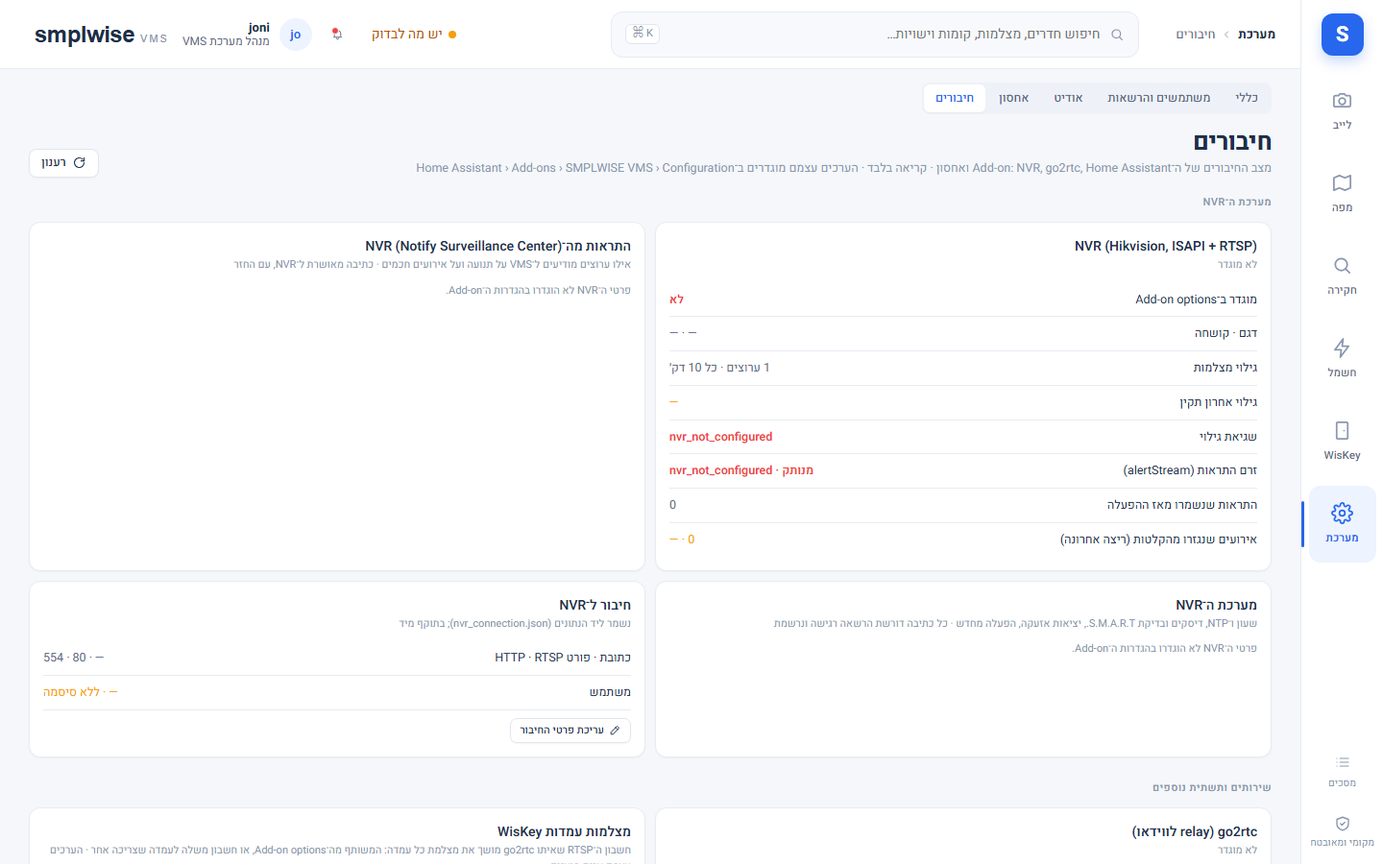
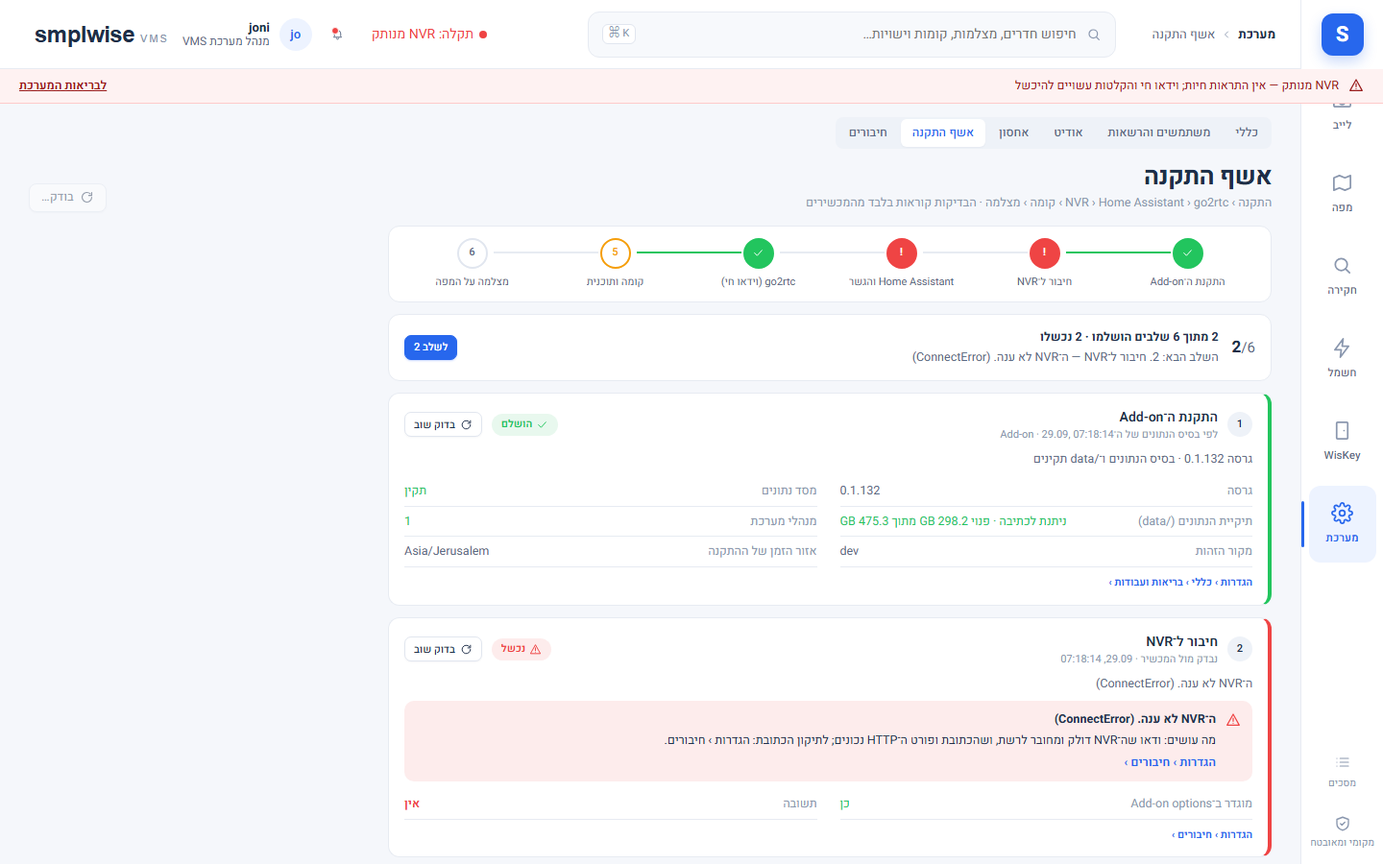
docs(he): setup wizard in DOCS_HE and the user guide; DOCS_HE mirrors DOCS.md @ 18ac4ad
DOCS_HE.md: installation step 5 and the "אשף ההתקנה (T071)" section, plus the T050 bundle-import text that had
drifted since 39fc47e, so the Source header now names 18ac4ad (docs_he_check: 0 drifted).

docs/user-guide/he/70-setup-wizard_HE.md describes the real flow: the six steps, what each checks, the common
failure and its fix, "בדוק שוב", "מוכן לעבודה", the shell hint and the clock thresholds; the screenshots are from the
build against the fake-device fixture backend (desktop: the NVR step failing; phone: the NVR step passing).
screens.json points the guide capture at #/system/wizard (desktop + phone). The getting-started page and the
operator guide no longer say the wizard does not exist.

diff --git a/smplwise_vms/DOCS_HE.md b/smplwise_vms/DOCS_HE.md
@@ -1,4 +1,4 @@
-Source: smplwise_vms/DOCS.md @ 39fc47e
+Source: smplwise_vms/DOCS.md @ 18ac4ad
 
 > תרגום של `smplwise_vms/DOCS.md`; המקור באנגלית קובע במקרה של סתירה.
 
@@ -46,6 +46,40 @@ JPG עם בחירת עמוד, סיבוב וחיתוך), מיקום מצלמות 
    מופיעות מעצמן בתוך דקה (גילוי בהפעלה וכל 10 דקות); הגדרות ← מצלמות
    ← "סנכרון מה־NVR" מרענן מיידית. אם הרשימה נשארת ריקה, יש לבדוק את יומן ה-add-on ואת
    `/api/v1/health` (`discovery.cameras_last_error`).
+5. פותחים את הגדרות ← **אשף התקנה** ועוברים על ששת השלבים עד שמופיע "מוכן לעבודה" (הסעיף הבא).
+
+## אשף ההתקנה (T071)
+
+הגדרות ← אשף התקנה (`#/system/wizard`, למנהלי מערכת: `system.configure` ברמת ההתקנה) בודק את ההתקנה בשישה
+שלבים, ולכל שלב שלא הושלם אומר מה לא תקין, מה עושים עכשיו ואיפה:
+
+| שלב | מושלם כאשר | הראיות המוצגות |
+|---|---|---|
+| 1. התקנת ה-Add-on | בסיס הנתונים עונה (הבדיקה של השלב עצמו מריצה `quick_check` של SQLite), `/data` ניתנת לכתיבה ויש בה לפחות 512 MB פנויים | גרסה, שטח פנוי, מנהלי מערכת, מקור הזהות, אזור הזמן של ההתקנה |
+| 2. חיבור ל-NVR | `deviceInfo` עונה, רשימת הערוצים אינה ריקה, סטיית השעון עד 30 שנ׳ וההיסט מ-UTC של ה-NVR תואם עכשיו את אזור הזמן של ההתקנה | דגם, קושחה, ערוצים (מקוונים / לא מקוונים), ערוצים עם זרם ראשי ומשני, פרופילי וידאו, סטיית שעון, היסט מול הצפוי |
+| 3. Home Assistant והגשר | החיבור של ה-add-on ל-HA פעיל, SMPLWISE Bridge מצומד וטעון (אין הפעלה מחדש ממתינה של HA), שעון HA בטווח 30 שנ׳ | גרסת HA, ישויות, מצב הגשר וגרסתו, הפעלה מחדש ממתינה, סטיית שעון HA ואזור הזמן שלו, הפער בין שעון ה-NVR לשעון HA |
+| 4. go2rtc | `/api` ו-`/api/streams` עונים, ומרגע שיש מצלמות — קיימים זרמי `smplwise_` | גרסה, הזרמים שלנו (פעילים כרגע), זרמים צפויים וחסרים, מספר הזרמים של מוצרים אחרים (לעולם לא שמותיהם) |
+| 5. קומה ותוכנית | לפחות לקומה אחת יש תוכנית מפורסמת | אתרים / מבנים / קומות, קומות עם תוכנית מפורסמת, קומות בלי |
+| 6. מצלמה על המפה | לפחות מצלמה אחת מוצבת על תוכנית | מצלמות (פעילות), מוצבות, עם פרופיל זרם ידוע, מצלמות שלא הוצבו |
+
+- מצבים: **הושלם**, **לביצוע** (נשארה עבודת הגדרה, או ששלב מכשיר עוד לא נבדק), **נכשל** (בדיקה מצאה בעיה)
+  ו-**ממתין לשלב קודם** (שלב המצלמה ממתין לשלב ה-NVR או לשלב הקומה). שלב שלא הושלם מציג את הבעיה, "מה עושים"
+  (הפעולה הבאה, במפורש) וקישור למסך ההגדרות שמתקן אותה; אזהרות (שעון שסוטה בכמה שניות, ערוצים לא מקוונים,
+  זרמים חסרים, קומות בלי תוכנית) אינן מונעות מהשלב לעבור.
+- ספי השעון: שעון מכשיר שסוטה עד 2 שנ׳ משעון ה-add-on תקין, עד 30 שנ׳ — אזהרה, מעבר לזה השלב נכשל. ההיסט מ-UTC
+  של ה-NVR מושווה לאזור הזמן של ההתקנה (הגדרות ← כללי ← וידאו ומדיה, "אזור זמן של האתר וה־NVR") ברגע הבדיקה:
+  כלל שעון קיץ שגוי ב-NVR מכשיל את שלב ה-NVR, כי חיפוש הקלטות נעשה בשעון הקיר של ה-NVR והיה סוטה בשעה. שעון HA
+  נקרא מכותרת ה-`Date` של ה-API שלו (ברזולוציה של שנייה).
+- קריאת האשף (`GET /api/v1/setup/state`) לעולם לא פונה למכשיר: שלבי מכשירים מציגים את הבדיקה האחרונה לפי דרישה
+  במשך 10 דקות, ואחרת את מה שהעבודות של ה-add-on עצמו יודעות (גילוי מצלמות, סנכרון זרמים, החיבור ל-HA), עם הסימון
+  "לפי עבודות הרקע". פתיחת המסך בודקת כל שלב כזה פעם אחת; "בדוק שוב" בשלב (או "בדוק הכול") מריץ
+  `POST /api/v1/setup/check/{step}` — קריאות בלבד ל-NVR, ל-go2rtc ול-Home Assistant, לכל היותר פעם ב-5 שניות לכל
+  משתמש ושלב (אחרת 429, והמסך אומר כמה להמתין). כל בדיקה נרשמת ביומן הביקורת כ-`setup.check` עם התוצאה. שום דבר
+  באשף אינו כותב ל-NVR, ל-go2rtc או ל-Home Assistant; התיקונים שהוא מקשר אליהם הם המסכים הקיימים, עם ההרשאות
+  והאישורים שלהם.
+- כל עוד נשארו שלבים, מנהל מערכת רואה מעל כל מסך "השלם את ההתקנה · n מתוך 6 שלבים הושלמו" עם קישור לאשף; × מסתיר
+  את ההודעה עד סוף הסשן בדפדפן.
+- בלי backend (תצוגת העיצוב) האשף מציג נתוני הדגמה.
 
 ## זהות וגישה
 
@@ -340,8 +374,41 @@ JPG עם בחירת עמוד, סיבוב וחיתוך), מיקום מצלמות 
   "צור חבילת ראיות" כותבת ZIP אחד: קליפים משומרים עם מניפסטי הייצוא שלהם, תצוגות מקדימות,
   הערות, מניפסט עם SHA-256 לכל קובץ ודוח קריא; סימניות שלא נשמרו מעולם מוצגות כדולגו.
   "אימות חבילה" מחשב מחדש את ה-hashes של כל קובץ בחבילה ומדווח על כל רשומה. ה-hash מוכיח
-  שלמות (integrity) מאז שהחבילה נוצרה, לא אותנטיות מול המצלמה; חתימה וניהול מפתחות יגיעו
-  בהמשך.
+  שלמות (integrity) מאז שהחבילה נוצרה, לא אותנטיות מול המצלמה (חתימת המניפסט מתוארת תחת "מגבלות").
+- ייבוא חבילה (T050): "ייבוא חבילת ראיות" ברשימת התיקים מקבל ZIP של חבילה שנוצרה בהתקנה אחרת (או בהתקנה זו,
+  קודם), מאמת אותה קודם ומציג דוח: כל קובץ במניפסט כ-תואם / שונה / חסר / פגום עם גודלו, קבצים שהמניפסט אינו
+  מונה, גרסת המניפסט, ההתקנה שיצרה אותה (המזהה שלה, גרסת SMPLWISE, זמן הייצוא והמייצא), האם זו ההתקנה הזו, תוצאת
+  החתימה וסיכום בשפה פשוטה. "ייבא כתיק" זמין רק כשהכול תאם; הוא יוצר תיק **חדש** המסומן "מיובא" עם באנר מקור
+  (התקנת המקור, המייצא, זמן הייצוא, ה-SHA-256 של החבילה, "hash תואם" בזמן הייבוא) וכפתור "בדיקת hash חוזרת"
+  שמחשב מחדש את ה-hashes של העותקים השמורים. קליפים ותמונות מועתקים אל /data/imported/<SHA-256 של החבילה>/ יחד
+  עם המניפסט והחתימה שלו; הערות הופכות להערות מיובאות לקריאה בלבד; סימניות שהמקור לא שימר נשארות "לא נכלל בחבילת
+  המקור". אי אפשר להסיר פריטים מיובאים אחד-אחד; מחיקת התיק מסירה אותם ואת הקבצים שלהם. אותה חבילה מיובאת פעם
+  אחת (409 מציין את התיק הקיים); אחרי מחיקת התיק הזה אפשר לייבא אותה שוב.
+- מה האימות מוכיח: SHA-256 תואם לכל קובץ (ומניפסט שלם) פירושו שהקבצים לא השתנו מאז שהחבילה יוצאה. חתימה תקפה
+  במפתח של ההתקנה **הזו** מאשרת גם שההתקנה הזו יצרה אותה; חתימה תקפה במפתח לא מוכר מוכיחה שלמות בלבד. מזהה
+  ההתקנה במניפסט הוא טענה, שמאושרת רק באותה חתימה: המזהה ציבורי (כל חבילה ומסך החתימה מציגים אותו), ולכן חבילה לא
+  חתומה שנושאת את המזהה של ההתקנה הזו מדווחת ומסומנת "לפי המזהה בלבד (לא מאושר בחתימה)", ולעולם לא כמי שנוצרה כאן.
+  מה הוא אינו מוכיח: שהצילום אמיתי, ששעון המצלמה היה נכון, או כל דבר לגבי קבילות משפטית — המצלמה, ה-NVR והרשת
+  נמצאים מחוץ לכל hash וחתימה.
+- מה חבילה מיובאת אינה יכולה לעשות: שום דבר בה לא הופך למצלמה, אירוע, תוכנית, משתמש, שיוך או הגדרה; מזהי
+  המצלמות של המקור נשמרים כטקסט בלבד; report.html ו-notes.md עוברים hash אבל לעולם אינם נשמרים לתצוגה; רק קבצי
+  קליפ / תמונה ששמותיהם עוברים רשימת היתר קפדנית מגיעים לדיסק, ומוגשים עם הסוג האמיתי שלהם (JPEG / MP4 לפי
+  החתימה, כל דבר אחר כהורדה), nosniff ומדיניות sandbox. ארכיונים עם `..`, נתיבים מוחלטים, אותיות כונן, לוכסנים
+  הפוכים, תווי בקרה, קישורים סימבוליים, רשומות מוצפנות, שמות כפולים, יותר מ-5000 רשומות, ספרייה מרכזית גדולה ממה
+  ש-5000 רשומות יכולות להיות, יחס דחיסה קיצוני או גודל לא דחוס כולל מעל פעמיים תקרת ההעלאה — נדחים לפני שנקרא
+  מהם דבר (מספר הרשומות וגודל הספרייה נקראים מרשומות הסיום של הארכיון לפני שה-ZIP ממופתח). העלאות נכתבות בזרימה
+  לקובץ זמני (שנמחק אחר כך) ומוגבלות בהגדרת המוצר `cases.import_max_mb` (ברירת מחדל 512 MB, 16–4096); העלאה
+  שנתקעת 30 שנ׳ או נמשכת יותר מ-10 דקות מופסקת עם 408 ומשחררת את המקום. אימות או ייבוא אחד רץ בכל פעם (אחר מקבל
+  429 "busy"), ואף אחד לא מתחיל — או ממשיך — כשהוא היה משאיר פחות מ-`storage.min_free_mb` (ברירת מחדל 1024 MB)
+  פנויים ב-/data, שם נמצא בסיס הנתונים (507). "בדיקת hash חוזרת" רצה אחת בכל פעם ולכל היותר פעם בדקה לתיק.
+  תאריכים, שמות וטקסטים מחבילה נבדקים ומנוקים מתווי בקרה ומתווי עקיפת כיווניות (bidi override) לפני שהם נשמרים או
+  מוצגים.
+- הרשאות: אימות דורש את מה שקריאת תיקים דורשת (`events.read` במקום כלשהו); ייבוא דורש `cases.manage` לכל
+  ההתקנה (תיק מיובא אינו שייך לאף מצלמה כאן). שתיהן נבדקות לפני שההעלאה נקראת. פריטים מיובאים מוצגים רק למשתמשים
+  שקוראים כל מצלמה. אימות וייבוא (מותרים ונדחים) נרשמים ביומן הביקורת. הבתים המיובאים מופיעים תחת מערכת › אחסון
+  ("אחסון התוסף (/data)" › ראיות מיובאות) ובדוח הבריאות, ויוצאים יחד עם התיק. קבצים מיובאים אינם חלק מגיבויי
+  הפרויקט (כמו תמונות מצב): אחרי שחזור גיבוי תיק מיובא חוזר כשפריטיו מסומנים "חסר" ועדיין חוסם ייבוא חוזר של אותה
+  חבילה (409 מציין אותו) — מוחקים את התיק ואז מייבאים את החבילה שוב כדי לקבל את הקבצים בחזרה.
 - ניהול תיקים (יצירה, עריכה, הוספה או הסרה של פריטים, שימור) דורש הרשאת `cases.manage` —
   מפעילים, מנהלי אתר ומנהל המערכת מחזיקים בה; צופים לא רואים כאן דבר. כל שינוי מבוקר.
 

diff --git a/docs/user-guide/he/70-setup-wizard_HE.md b/docs/user-guide/he/70-setup-wizard_HE.md
@@ -2,10 +2,16 @@
 
 ## מה זה
 
-**ההתקנה האמיתית קורית בלשונית "Configuration" של ה-add-on עצמו ב-Home Assistant, שדה-שדה — לא
-במסך אשף בתוך המוצר.** מסך "אשף התקנה" (`#/system/setup`) הוא **fixture עיצובי בלבד עם נתוני
-הדגמה**: ברגע שיש backend אמיתי, מסך זה אינו מוצג בניווט וכתובת ישירה אליו מפנה במקום זאת להגדרות
-← חיבורים (עובדות קריאה-בלבד על מצב כל חיבור). כל הצעדים למטה מתבצעים דרך Home Assistant.
+שני חלקים:
+
+- **הגדרת החיבורים** קורית בלשונית "Configuration" של ה-add-on ב-Home Assistant, שדה-שדה (למטה).
+- **אשף ההתקנה** במוצר — הגדרות ← **אשף התקנה** (`#/system/wizard`, למנהלי מערכת בלבד) — בודק שההתקנה באמת
+  עובדת, בשישה שלבים: **התקנה ← NVR ← Home Assistant ← go2rtc ← קומה ← מצלמה**. לכל שלב הוא מציג מצב
+  (הושלם / לביצוע / נכשל / ממתין לשלב קודם), את העובדות שנבדקו, ואם השלב לא הושלם — מה הבעיה, **מה עושים**
+  וקישור למסך שמתקן אותה. האשף עצמו **לא משנה דבר** ב-NVR, ב-go2rtc או ב-Home Assistant: הוא רק קורא.
+
+הגדרות ← **חיבורים** (`#/system/setup`) נשאר המסך עם העובדות המפורטות על כל חיבור, עריכת פרטי ה-NVR והכתיבות
+המאושרות ל-NVR; האשף מקשר אליו כשצריך.
 
 ## איך אני… (מנהל מערכת) — לפני ההפעלה הראשונה
 
@@ -40,6 +46,31 @@
    `service_not_allowed`/"השירות אינו מורשה", וזה לא באג. לשונית ההגדרות מציגה את מצב הגשר
    (ממתין ל-Restart / פעיל / עדכון ממתין) בכל עת.
 
+## איך אני… (מנהל מערכת) — עובר על אשף ההתקנה
+
+5. **פותח את הגדרות ← אשף התקנה.** בראש המסך שורת שלבים (ירוק = הושלם, אדום = נכשל, כתום = לביצוע) וסיכום
+   "n מתוך 6 שלבים הושלמו · השלב הבא". בפתיחה האשף בודק מול המכשירים כל שלב שידוע רק מעבודות הרקע של ה-add-on
+   (השורה מתחת לכותרת השלב אומרת "נבדק מול המכשיר", "לפי עבודות הרקע" או "לפי בסיס הנתונים").
+6. **מטפל בשלב הראשון שלא הושלם.** בכרטיס השלב: הבעיה במשפט אחד, "מה עושים:" עם הפעולה עצמה, וקישור למסך
+   המתקן. אחרי התיקון — **"בדוק שוב"** באותו שלב (אפשר פעם ב-5 שניות לכל שלב; אם מוקדם מדי, המסך אומר כמה
+   לחכות). "בדוק הכול" בודק את כל השלבים.
+
+   | שלב | מה נבדק | כשזה נכשל — הדוגמה הנפוצה |
+   |---|---|---|
+   | 1. התקנת ה-Add-on | בסיס הנתונים, `/data` (כתיבה ושטח פנוי), מנהלי מערכת, אזור הזמן | דיסק מלא ← לפנות ייצואים וגיבויים ישנים (הגדרות ← אחסון) |
+   | 2. חיבור ל-NVR | דגם וקושחה, רשימת הערוצים והזרמים (ראשי ומשני), פרופילי הווידאו, שעון ה-NVR מול ה-add-on, שעון קיץ | "ה־NVR לא ענה" ← לבדוק שהוא דולק ושהכתובת והפורט נכונים (הגדרות ← חיבורים); "דחה את שם המשתמש או הסיסמה"; סטיית שעון מעל 30 שנ׳ ← NTP או "סנכרן לשעון השרת"; היסט UTC שגוי ← אזור הזמן/שעון הקיץ בהגדרות ה-NVR |
+   | 3. Home Assistant והגשר | החיבור ל-HA, גרסת HA, מצב SMPLWISE Bridge וצימודו, הפעלה מחדש ממתינה, שעון HA ואזור הזמן שלו | "עוד לא נטענה" ← להפעיל מחדש את Home Assistant; "עוד לא צומד" ← לאשר את SMPLWISE Bridge ב-Devices & services |
+   | 4. go2rtc | גרסה, זרמי `smplwise_` מול הזרמים שהמצלמות צריכות (זרמים של מוצרים אחרים רק נספרים) | "go2rtc לא ענה" ← `go2rtc_url`; "אין אף זרם smplwise_" ← "סנכרון זרמים" (הגדרות ← כללי ← וידאו ומדיה) |
+   | 5. קומה ותוכנית | אתר, מבנה, קומה ותוכנית מפורסמת | "אין תוכנית" / "טיוטה שלא פורסמה" ← הקישור פותח את ייבוא התוכנית של אותה קומה |
+   | 6. מצלמה על המפה | מצלמות רשומות, מוצבות על תוכנית, עם פרופיל זרם ידוע | "אף מצלמה עוד לא מוצבת" ← הקישור פותח את עורך התוכנית |
+
+7. **מסיים כשמופיע "מוכן לעבודה".** כל ששת השלבים עברו; משם קישורים ישירים לכל המצלמות, למפה ולאירועים.
+   עד אז מנהל מערכת רואה מעל כל מסך את השורה "השלם את ההתקנה · n מתוך 6 שלבים הושלמו" עם קישור לאשף; × מסתיר
+   אותה עד סוף הסשן בדפדפן.
+
+ספי השעון: עד 2 שניות סטייה — תקין; עד 30 — אזהרה (השלב עובר); מעבר לזה — השלב נכשל. שעון קיץ נבדק לפי אזור
+הזמן של ההתקנה (הגדרות ← כללי ← וידאו ומדיה, "אזור זמן של האתר וה־NVR").
+
 ## שים לב
 
 - קישור המפתח ל-OpenAI מוסבר בפירוט (מנוי מול API, חיוב, תקציב, ביטול) ב-
@@ -48,5 +79,11 @@
   לפני שמדווחים על תקלה; רשימת בדיקה מוכנה למעבדה: `docs/operations/LAB_CHECKLIST_2026-09-29_HE.md`.
 - אף שדה סוד (סיסמה, מפתח API) לא מוצג שוב אחרי שמירה — רק "מוגדר: כן/לא".
 
-![אשף התקנה (מסך fixture, נתוני הדגמה)](img/setup-wizard.png)
-*יוחלף בצילום מהמעבדה.*
+- האשף לא מחליף את הגדרות ← בריאות ועבודות: הוא עונה על "האם ההתקנה שלמה", ומסך הבריאות על "מה קורה עכשיו".
+- בדיקה מול מכשיר מוצגת 10 דקות; אחר כך האשף חוזר להציג את מה שעבודות הרקע יודעות, עד ה"בדוק שוב" הבא. כל
+  בדיקה נרשמת ביומן הביקורת (`setup.check`).
+
+![אשף התקנה: ה-NVR לא עונה — השלב נכשל עם ההסבר, מה עושים והקישור להגדרות ← חיבורים](img/setup-wizard.png)
+*צילום מה-build מול backend עם NVR ו-go2rtc מדומים (`frontend/tests/fixtures/setup_fake_devices.py`), לא מהמעבדה.*
+
+![אשף התקנה בטלפון: שלב ה-NVR הושלם עם הראיות (דגם, ערוצים, פרופילים, שעון)](img/setup-wizard-phone.png)

diff --git a/docs/operations/OPERATOR_GUIDE_HE.md b/docs/operations/OPERATOR_GUIDE_HE.md
@@ -2,8 +2,9 @@
 
 **סטטוס:** נכתב מול build 0.1.28 (2026-09-16). כל צילום מסך שמוזכר כאן צולם מה־build הרץ, לא מדמו:
 צילומי מעבדה (תוכניות, שמות מצלמות) נשמרים ב־`private-evidence/<משימה>-live/` (לא בגיט); צילומי הדמו הציבוריים
-נמצאים ב־`docs/evidence/T007/`. אשף התקנה מונחה (install→NVR→HA→go2rtc→floor→camera) עדיין לא קיים כמסך;
-הרשימה בפרק 1 היא הסדר שהאשף יבצע, וכל בדיקה בה קיימת כבר במסך **מערכת › אבחון**.
+נמצאים ב־`docs/evidence/T007/`. מאז T071 הסדר install→NVR→HA→go2rtc→floor→camera קיים כמסך: **הגדרות › אשף התקנה**
+(`#/system/wizard`) בודק כל שלב (קריאה בלבד מול המכשירים), מסביר כשל ומקשר למסך שמתקן אותו — ראו
+`docs/user-guide/he/70-setup-wizard_HE.md`. הרשימה בפרק 1 נשארת כהסבר ידני לאותם שלבים.
 
 ## 1. התקנה צעד אחר צעד (עם בדיקות יכולת וזמן)
 
